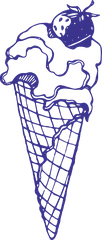
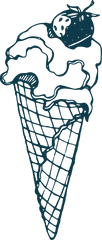
Menu: camp identity colours, inside/outside the camp choice
- Menu page uses the site's identity colours (deep teal, carpet red, paper) and the
  menu drawings are recoloured to match
- Request asks where the guest is (inside or outside the camp); the cabin number
  only shows for inside, and the location is added to the WhatsApp message

Claude-Session: https://claude.ai/code/session_01TxG6naJEwUx3exyfKzLU6U

Changed region(s): [[0.0, 0.0, 1.0, 1.0]]

diff --git a/app/globals.css b/app/globals.css
@@ -601,12 +601,12 @@ a:hover .arrow-icon { transform: translateX(3px); }
 
 /* ── Menu page (colours come from the printed menu: indigo, orange, cream) ── */
 .menu-page {
-  --m-indigo: #38308A;
-  --m-ink: #1F1A5E;
-  --m-orange: #D96A2B;
-  --m-orange-dark: #BF5A20;
-  --m-cream: #F6F3EC;
-  --m-line: rgba(56, 48, 138, 0.22);
+  --m-indigo: #0F3A4A;
+  --m-ink: #0B2E3B;
+  --m-orange: #9B2C2C;
+  --m-orange-dark: #7E2222;
+  --m-cream: #F7F1E7;
+  --m-line: rgba(15, 58, 74, 0.22);
   background: var(--m-cream);
   color: var(--m-ink);
   padding-bottom: 96px;
@@ -625,7 +625,7 @@ a:hover .arrow-icon { transform: translateX(3px); }
 .menu-chips { display: flex; gap: 8px; overflow-x: auto; padding: 10px 18px; max-width: var(--wrap); margin-inline: auto; scrollbar-width: none; }
 .menu-chips::-webkit-scrollbar { display: none; }
 .menu-chip { flex: none; padding: 7px 15px; border: 1.5px solid var(--m-indigo); border-radius: 999px; font-weight: 600; font-size: 0.9rem; color: var(--m-indigo); line-height: 1.3; transition: background-color .2s, color .2s; }
-.menu-chip:hover { background: rgba(56, 48, 138, 0.08); }
+.menu-chip:hover { background: rgba(15, 58, 74, 0.08); }
 .menu-chip.active { background: var(--m-indigo); color: var(--m-cream); }
 
 .menu-groups { max-width: 760px; padding-top: 8px; }
@@ -636,7 +636,7 @@ a:hover .arrow-icon { transform: translateX(3px); }
 .menu-card::after { content: ""; position: absolute; top: -11px; inset-inline-end: 26px; width: 22px; height: 22px; background: var(--m-indigo); clip-path: polygon(50% 0, 60% 40%, 100% 50%, 60% 60%, 50% 100%, 40% 60%, 0 50%, 40% 40%); }
 .menu-card-title { position: absolute; top: -15px; inset-inline-start: 20px; padding-inline: 12px; background: var(--m-cream); font-family: var(--f-display); font-size: 1.15rem; font-weight: 700; color: var(--m-indigo); line-height: 1.5; }
 .menu-art { position: absolute; top: 12px; inset-inline-end: 16px; height: 56px; width: auto; opacity: 0.95; pointer-events: none; }
-.menu-card.has-art .menu-list { margin-top: 18px; }
+.menu-card.has-art .menu-list { margin-top: 46px; }
 .menu-note { padding: 6px 4px 22px; padding-inline-end: 96px; font-size: 1rem; line-height: 1.7; min-height: 70px; }
 
 .menu-list li:first-child { border-top: 0; }
@@ -650,18 +650,18 @@ a:hover .arrow-icon { transform: translateX(3px); }
 .menu-add:active { transform: scale(0.94); }
 .menu-qty { display: inline-flex; align-items: center; height: 40px; border: 1.5px solid var(--m-indigo); border-radius: 999px; overflow: hidden; }
 .menu-qty button { width: 36px; height: 100%; border: 0; background: transparent; color: var(--m-indigo); font-size: 1.3rem; line-height: 1; cursor: pointer; }
-.menu-qty button:hover { background: rgba(56, 48, 138, 0.1); }
+.menu-qty button:hover { background: rgba(15, 58, 74, 0.1); }
 .menu-qty span { min-width: 1.6em; text-align: center; font-weight: 700; font-variant-numeric: tabular-nums; }
 .menu-add:focus-visible, .menu-qty button:focus-visible, .menu-chip:focus-visible { outline: 2px solid var(--m-orange); outline-offset: 2px; }
 
-.menu-cartbar { position: fixed; bottom: 16px; inset-inline: 16px; max-width: 520px; margin-inline: auto; z-index: 850; display: flex; align-items: center; justify-content: space-between; gap: 12px; padding: 10px; padding-inline-start: 18px; background: var(--m-indigo); color: var(--m-cream); border-radius: 18px; box-shadow: 0 10px 30px rgba(31, 26, 94, 0.35); }
+.menu-cartbar { position: fixed; bottom: 16px; inset-inline: 16px; max-width: 520px; margin-inline: auto; z-index: 850; display: flex; align-items: center; justify-content: space-between; gap: 12px; padding: 10px; padding-inline-start: 18px; background: var(--m-indigo); color: var(--m-cream); border-radius: 18px; box-shadow: 0 10px 30px rgba(11, 46, 59, 0.35); }
 .menu-cartbar-info { display: flex; flex-direction: column; line-height: 1.3; }
 .menu-cartbar-info span { font-size: 0.9rem; opacity: 0.85; font-variant-numeric: tabular-nums; }
 .menu-cartbar-btn { border: 0; background: var(--m-orange); color: #fff; font-weight: 700; padding: 12px 20px; border-radius: 12px; cursor: pointer; }
 .menu-cartbar-btn:hover { background: var(--m-orange-dark); }
 body:has(.menu-cartbar) .wa-float { bottom: 92px; }
 
-.menu-sheet-wrap { position: fixed; inset: 0; z-index: 1100; background: rgba(20, 16, 60, 0.55); display: flex; align-items: flex-end; justify-content: center; }
+.menu-sheet-wrap { position: fixed; inset: 0; z-index: 1100; background: rgba(11, 46, 59, 0.55); display: flex; align-items: flex-end; justify-content: center; }
 .menu-sheet { width: 100%; max-width: 560px; max-height: 92svh; overflow-y: auto; background: var(--m-cream); color: var(--m-ink); border-radius: 24px 24px 0 0; padding: 20px 20px 24px; display: flex; flex-direction: column; gap: 14px; }
 .menu-sheet-head { display: flex; align-items: center; justify-content: space-between; }
 .menu-sheet-head h2 { font-size: 1.5rem; color: var(--m-indigo); }
@@ -676,6 +676,12 @@ body:has(.menu-cartbar) .wa-float { bottom: 92px; }
 .menu-total { display: flex; justify-content: space-between; align-items: baseline; font-size: 1.15rem; border-top: 1.5px solid var(--m-indigo); padding-top: 12px; }
 .menu-total strong { color: var(--m-indigo); font-variant-numeric: tabular-nums; }
 .menu-total-note { font-size: 0.85rem; opacity: 0.75; margin-top: -6px; }
+.menu-where { border: 0; display: flex; flex-direction: column; gap: 8px; }
+.menu-where legend { font-weight: 600; font-size: 0.92rem; margin-bottom: 6px; }
+.menu-where-opts { display: grid; grid-template-columns: 1fr 1fr; gap: 10px; }
+.menu-where-opt { padding: 12px 10px; border: 1.5px solid var(--m-indigo); border-radius: 12px; background: transparent; color: var(--m-indigo); font-weight: 600; cursor: pointer; }
+.menu-where-opt[aria-pressed="true"] { background: var(--m-indigo); color: var(--m-cream); }
+.menu-where-opt:focus-visible { outline: 2px solid var(--m-orange); outline-offset: 2px; }
 .menu-error { color: #B3261E; font-weight: 500; font-size: 0.88rem; }
 .menu-notes input[aria-invalid="true"] { border-color: #B3261E; }
 .menu-send { border: 0; font: inherit; cursor: pointer; display: flex; align-items: center; justify-content: center; gap: 10px; background: #1FA855; color: #fff; font-weight: 700; padding: 15px 20px; border-radius: 14px; }
@@ -687,6 +693,7 @@ body:has(.menu-cartbar) .wa-float { bottom: 92px; }
   .menu-sheet { border-radius: 24px; }
   .menu-card { padding-inline: 32px; }
   .menu-art { height: 72px; inset-inline-end: 28px; }
+  .menu-card.has-art .menu-list { margin-top: 62px; }
   .menu-note { padding-inline-end: 140px; }
 }
 @media (prefers-reduced-motion: reduce) {

diff --git a/components/MenuBoard.tsx b/components/MenuBoard.tsx
@@ -25,6 +25,8 @@ export default function MenuBoard({ lang, groups, currency, whatsappNumber }: { 
   const [notes, setNotes] = useState("");
   const [guestName, setGuestName] = useState("");
   const [cabin, setCabin] = useState("");
+  const [where, setWhere] = useState<"" | "inside" | "outside">("");
+  const [whereMissing, setWhereMissing] = useState(false);
   const [nameMissing, setNameMissing] = useState(false);
   const nameRef = useRef<HTMLInputElement>(null);
   const [active, setActive] = useState(groups[0]?.id ?? "");
@@ -65,11 +67,13 @@ export default function MenuBoard({ lang, groups, currency, whatsappNumber }: { 
     });
     const totalLine = `${t.msgTotal}: ${formatNumber(total)} ${t.currency}${hasUnpriced ? ` (${t.msgPlus})` : ""}`;
     const noteLine = notes.trim() ? `\n${t.msgNotes}: ${notes.trim()}` : "";
-    const who = `${t.msgName}: ${guestName.trim()}${cabin.trim() ? `\n${t.msgCabin}: ${cabin.trim()}` : ""}`;
+    const place = where ? `${t.msgWhere}: ${where === "inside" ? t.inside : t.outside}\n` : "";
+    const who = `${place}${t.msgName}: ${guestName.trim()}${where === "inside" && cabin.trim() ? `\n${t.msgCabin}: ${cabin.trim()}` : ""}`;
     return `${t.greeting}\n\n${rows.join("\n")}\n\n${totalLine}${noteLine}\n\n${who}`;
   })();
   const waHref = whatsappLink(whatsappNumber, message);
   const nameOk = guestName.trim().length > 0;
+  const canSend = nameOk && where !== "";
 
   // The chip bar sticks right under the site header (its height changes with the offer ticker).
   useEffect(() => {
@@ -214,15 +218,25 @@ export default function MenuBoard({ lang, groups, currency, whatsappNumber }: { 
                 </li>
               ))}
             </ul>
+            <fieldset className="menu-where">
+              <legend>{t.where}</legend>
+              <div className="menu-where-opts">
+                <button type="button" className="menu-where-opt" aria-pressed={where === "inside"} onClick={() => { setWhere("inside"); setWhereMissing(false); }}>{t.inside}</button>
+                <button type="button" className="menu-where-opt" aria-pressed={where === "outside"} onClick={() => { setWhere("outside"); setWhereMissing(false); }}>{t.outside}</button>
+              </div>
+              {whereMissing && <span className="menu-error" role="alert">{t.whereRequired}</span>}
+            </fieldset>
             <label className="menu-notes">
               <span>{t.yourName}</span>
               <input ref={nameRef} type="text" value={guestName} onChange={(e) => { setGuestName(e.target.value); setNameMissing(false); }} maxLength={60} autoComplete="name" aria-invalid={nameMissing} />
               {nameMissing && <span className="menu-error" role="alert">{t.nameRequired}</span>}
             </label>
-            <label className="menu-notes">
-              <span>{t.cabinNumber}</span>
-              <input type="text" inputMode="numeric" value={cabin} onChange={(e) => setCabin(e.target.value)} maxLength={20} placeholder={t.cabinHint} />
-            </label>
+            {where === "inside" && (
+              <label className="menu-notes">
+                <span>{t.cabinNumber}</span>
+                <input type="text" inputMode="numeric" value={cabin} onChange={(e) => setCabin(e.target.value)} maxLength={20} placeholder={t.cabinHint} />
+              </label>
+            )}
             <label className="menu-notes">
               <span>{t.notes}</span>
               <textarea value={notes} onChange={(e) => setNotes(e.target.value)} rows={2} maxLength={300} placeholder={t.notesHint} />
@@ -232,12 +246,12 @@ export default function MenuBoard({ lang, groups, currency, whatsappNumber }: { 
               <strong>{formatNumber(total)} {t.currency}{hasUnpriced ? " +" : ""}</strong>
             </div>
             {hasUnpriced && <p className="menu-total-note">{t.totalNote}</p>}
-            {waHref && (nameOk ? (
+            {waHref && (canSend ? (
               <a className="menu-send" href={waHref} target="_blank" rel="noopener noreferrer">
                 <WhatsAppIcon size={18} color="#fff" /> {t.send}
               </a>
             ) : (
-              <button type="button" className="menu-send" onClick={() => { setNameMissing(true); nameRef.current?.focus(); }}>
+              <button type="button" className="menu-send" onClick={() => { setWhereMissing(where === ""); setNameMissing(!nameOk); if (!nameOk) nameRef.current?.focus(); }}>
                 <WhatsAppIcon size={18} color="#fff" /> {t.send}
               </button>
             ))}

diff --git a/lib/menu.ts b/lib/menu.ts
@@ -202,8 +202,13 @@ export const MENU_TEXT = {
     msgCabin: "Cabin",
     yourName: "Your name",
     cabinNumber: "Cabin number (optional)",
-    cabinHint: "Leave empty if you are not staying in a cabin",
+    cabinHint: "Leave empty if you are not in a cabin",
     nameRequired: "Please enter your name.",
+    where: "Where are you?",
+    inside: "Inside the camp",
+    outside: "Outside the camp",
+    whereRequired: "Please choose where you are.",
+    msgWhere: "Location",
   },
   ar: {
     nav: "المنيو",
@@ -239,6 +244,11 @@ export const MENU_TEXT = {
     cabinNumber: "رقم الكابينة (اختياري)",
     cabinHint: "اتركه فارغًا إن لم تكن مقيمًا في كابينة",
     nameRequired: "من فضلك اكتب اسمك.",
+    where: "أين أنت؟",
+    inside: "داخل الكامب",
+    outside: "خارج الكامب",
+    whereRequired: "من فضلك اختر مكانك.",
+    msgWhere: "المكان",
   },
 } satisfies Record<Locale, Record<string, unknown>>;
 
